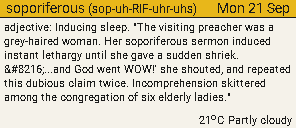
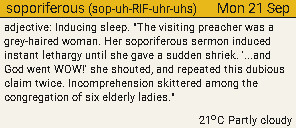
docs: 68 - a fixed pixel inset holds the wrong number of lines
The fourth reported symptom from the same run of panel reports: "should allow for
another line, as there is space". LESSONS 68 records the measurement (6 lines, ink
22-96, footer at 115 = 18px free), why the obvious fix - a taller box - is a trap
(4 lines at 10pt would reach y=126, into the footer), and the rule that caught it:
a box that reserves a constant for a line's height is wrong at both ends of the
ladder.

STATUS: the block geometry row (288x93) and a row for the fix, plus re-measured
build figures. ARCHITECTURE: the body zone now states the box is the space between
the header rule and the footer row and holds only whole lines. UI_HISTORY 8: the
third render (7 lines, ink to y=109) beside the 6-line one it replaced. The
soporiferous history render is regenerated through --word-file so the archived
"after" is engine-composed rather than Python-composed.

diff --git a/docs/STATUS.md b/docs/STATUS.md
@@ -7,7 +7,7 @@
 | Item | State |
 |---|---|
 | Repo scaffold | ✅ done |
-| Firmware builds | ✅ `verify_all.py` **ALL GREEN on a clean tree** (2026-09-22): `pio run -e s3` Flash **30.9%** (1,031,861 / 3,342,336 B), RAM **24.6%** (80,548 / 327,680 B); only library-side warnings. The 30.8% / 23.8% figures before this session predate the WOTD body buffers added below |
+| Firmware builds | ✅ `verify_all.py` **ALL GREEN on a clean tree** (2026-09-22): `pio run -e s3` Flash **30.9%** (1,031,865 / 3,342,336 B), RAM **24.6%** (80,548 / 327,680 B); only library-side warnings. The 30.8% / 23.8% figures before this session predate the WOTD body buffers added below |
 | Host suite | ✅ **133 tests across 9 suites**, all passing, on BOTH font paths (5x7 fallback and `CHROMAWOTD_DEVICE_FONTS=ON`) |
 | Display bring-up | ✅ 4-colour smoke pattern verified & flashed (hardware state as of this session's earlier work) |
 | Dual-target layout engine | ✅ `verse_display.cpp` runs on target (Seeed GFX) & host (CMake test harness) |
@@ -32,7 +32,8 @@
 | Weather policy & outlook | ✅ Daytime (< 18:00) shows today's expected maximum + condition (unlabelled); evening (18:00–23:59) shows tomorrow's expected maximum + condition with a red **TOMORROW** marker before it — without that marker the number is indistinguishable from today's |
 | Buttons & content toggle | ✅ A **tap** = sync + refresh; a **hold ~0.5-10 s** = show the other content for that refresh (an `RTC_DATA_ATTR` invert flag, cleared at the next scheduled wake, so the clock is always back in charge at the next slot); a **hold 10 s+** = factory reset. Classified by hold length in `sched/hold_gesture` (7 tests). A **double click was measured and ruled out**: every button wake — tap or double click — shows the pad still low at the first sample, so the two are indistinguishable (LESSONS §58) |
 | Weather icons | ✅ **N/A — the icon was removed (2026-09-19).** The weather is TEXT (`25°C Partly cloudy`), so the old "only WMO ≥ 80 gets a Rain icon" limitation no longer exists: the condition words are always correct. The `WeatherIcon` enum, the WMO→icon mapping, `draw/weather_icon.*`, the `--icon` preview flag and the sprite-sheet generator were all deleted (LESSONS §61) |
-| Verse font auto-size | ✅ Ladder extracted to `cc_pickVerseFont()`/`cc_verseFontSize()`; block geometry lives once in `verse_display.h` (`kVerseMaxW`/`kVerseMaxH`). The ladder is now **10 / 9 / 8 / 7 / 6 / 5.5 / 5pt** (widened from 6/5.5/5 with the verse-first layout, then raised to 10pt so short content can fill the panel — LESSONS §53/§55). Measured on the device font path: short verses and Word-of-the-Day definitions get **10pt**, the 153-char fixture verse 8pt, 191 chars 7pt, 316 chars 5.5pt |
+| Verse font auto-size | ✅ Ladder extracted to `cc_pickVerseFont()`/`cc_verseFontSize()`; block geometry lives once in `verse_display.h` (`kVerseMaxW`/`kVerseMaxH` = **288×93**). The ladder is **10 / 9 / 8 / 7 / 6 / 5.5 / 5pt** (widened from 6/5.5/5 with the verse-first layout, then raised to 10pt so short content can fill the panel — LESSONS §53/§55). Measured on the device font path: short verses and Word-of-the-Day definitions get **10pt**, the 153-char fixture verse 8pt, 191 chars 7pt, 316 chars 5.5pt, and a paragraph-length WOTD body 5pt |
+| Verse block height (2026-09-22) | ✅ **FIXED (LESSONS §68).** The box stopped at y=104 (82px) and reserved a fixed `8*size` px inset, so the 5pt rung drew 6 of the 7 lines that fitted — reported from the panel as "should allow for another line, as there is space" (18px, a whole line, sat unused above the footer). The box is now the space between the two fixed rows (22 → the footer row's top at 115 = **93px**) and `cc_lineCapacity(maxH, lineHeight) = maxH / lineHeight` holds only WHOLE lines, with no pixel inset to get wrong; both draw loops stop on the same capacity the truncation decision uses. The largest rung is unaffected (93/26 = 3 lines; 4 would have reached y=126, into the footer), and the 4 canonical ledger renders are byte-identical. The portal's wrapped error text keeps its 9 lines (box 84 → 90) |
 | Auto-size local coverage | ✅ `test_verse_autosize` — CMake compiles this target **with** `-DCHROMAWOTD_FONT_FREESANS=1`, closing a blind spot where every other host target exercised only the non-FreeSans path. 7/7 suites pass; `verify_all.py` ALL GREEN |
 | Device-font host suite | ✅ `-DCHROMAWOTD_DEVICE_FONTS=ON` runs the layout invariants on the shipped proportional font path; two font-calibrated tests were corrected (overflow-marker detector, alert-rule probe) after a render proved the product was fine and only the tests were. Wired in as `verify_all.py` stage 3/5 (see LESSONS §39) |
 | Font decision tooling | ✅ `tools/font_size_probe.py --live` reports which body font today's content gets, straight from `cc_verseFontSize()` via `layout_render`; `tools/flash_when_awake.py` retry-loops an upload until the deep-asleep port returns |

diff --git a/docs/lessons/LESSONS_LEARNT.md b/docs/lessons/LESSONS_LEARNT.md
@@ -1956,3 +1956,46 @@ Rules:
   the source's own data — never in a comment.
 
 (2026-09-22)
+
+## 68. A box that reserves a fixed pixel inset holds the wrong number of lines (RESOLVED)
+
+Reported *after* §66 was fixed and the whole example finally reached the renderer: *"the misgiving
+word should allow for another line, as there is space."*
+
+Measured on that render (5pt rung, 13 px lines, footer row at y=115): six body lines with ink from
+y=22 to y=96 and **18 px — a whole line — unused**.
+
+Two causes, both of the same shape:
+
+1. `cc_lineCapacity(maxH, size, lineHeight)` returned `(maxH - 8*size)/lineHeight + 1`: the box
+   reserved a fixed **8 pixels** for "the line's footprint", whatever the font. 8 px is 62% of a 5pt
+   line and 31% of a 10pt line, so it over-reserved at the small rung and under-reserved at the large
+   one.
+2. The draw loops stopped on a *different* bound again (`curY + 8 > startY + maxH`) — the same class
+   of mismatch that produced §66's invisible cut.
+
+The cheap fix — "just make the box taller" — is a trap: at 10pt a 4th line would finish at y=126,
+straight through the footer row at y=115.
+
+Fixes:
+- `cc_lineCapacity(maxH, lineHeight) = maxH / lineHeight` — a line fits WHOLE, and the `size`
+  parameter is gone. There is no reserve left to get wrong.
+- The box is now defined by the two fixed rows rather than a figure of its own: top = `kHeaderH` +
+  `kVerseMargin` = 22, bottom = the footer row's top (`kRowY` = 115) → **`kVerseMaxH` 82 → 93**. That
+  is 7 lines at 5pt, 6 at 5.5pt, 5 at 6/7pt, 4 at 8/9pt, 3 at 10pt; the deepest ink lands at y=114.
+- Both draw loops stop on `lineIdx >= capacity` — the *same* bound the truncation decision uses, so a
+  count and a draw can no longer disagree about how many lines exist.
+- The captive portal's wrapped error text keeps its 9 lines by moving its box 84 → 90, so the change
+  is not allowed to cost a line somewhere the report did not mention.
+
+Rules:
+- **A reserve expressed in pixels does not scale with the thing it reserves for.** Derive line counts
+  from the line height; a constant standing in for it will be simultaneously too big and too small in
+  one layout.
+- **Check both ends of the range before resizing a box.** The request was at the smallest rung; the
+  risk it added was at the largest. The 93px box is only safe because `93/26 = 3` still holds 10pt.
+- **Measure the ink, not the intent.** The real free space was visible in one command — the rendered
+  PNG's ink bands (`y` ranges) showed 22–96 with the footer at 115. The layout code and the tests both
+  agreed with the *old* rule; only the pixels disagreed.
+
+(2026-09-22)

diff --git a/docs/UI_HISTORY.md b/docs/UI_HISTORY.md
@@ -243,7 +243,17 @@ data-shaped — a drop rule, two caps, and a timezone — not typography.
 | the paragraph-length example, filled and marked | the sentence-bounded alternative (recorded, not adopted) |
 |---|---|
 | ![misgiving: full example at 5pt with an ellipsis](images/history/wotd_after_misgiving_full_body_ellipsis.png) | ![misgiving: definition + first sentence at 7pt](images/history/wotd_variant_misgiving_first_sentence.png) |
-| `misgiving`, 874-char body (the real example is 855 chars) → the ladder picks **5pt** and the block ends with a visible `...` | definition + the usage's first sentence → the ladder picks **7pt**. Kept in the history as the size/coverage trade-off that was available when the fill-the-box behaviour was chosen |
+| `misgiving`, 874-char body (the real example is 855 chars) → the ladder picks **5pt** and the block ends with a visible `...` — but the block stopped at y=96 with the footer row at 115: **one whole line left unused** | definition + the usage's first sentence → the ladder picks **7pt**. Kept in the history as the size/coverage trade-off that was available when the fill-the-box behaviour was chosen |
+
+| the same word, box grown to the footer row (7 lines) |
+|---|
+| ![misgiving: seven lines in the 93px box](images/history/wotd_after_misgiving_seven_lines_taller_box.png) |
+| Reported from the panel as "should allow for another line, as there is space": the box reserved a fixed 8px inset and stopped at y=104, not at the footer row. `kVerseMaxH` 82 → 93 (22 → 115) and `cc_lineCapacity = maxH / lineHeight` now hold **7 lines at 5pt**, ink ending at y=109 instead of 96 — the last line is `...collegiate entrance…` |
+
+- **Space left unused under text** — the block reserved a fixed 8px inset for a line whose height
+  depends on the font, so it dropped a 13px line at the 5pt rung while (at 10pt) it would have allowed
+  a line to reach 11px *into* the footer row. The count is now derived from the line height and the
+  box is defined by the two fixed rows. (LESSONS §68)
 
 - **Same word as yesterday** — A.Word.A.Day publishes at 00:01 US Eastern, i.e. 14:01 AEST, *after*
   the 12:30 slot. The 12:30 refresh was reading yesterday's edition and showing it as today's word.

diff --git a/docs/ARCHITECTURE.md b/docs/ARCHITECTURE.md
@@ -23,7 +23,7 @@ ChromaWOTD is a 2.9" quad-colour ePaper display (BWRY: black, white, red, yellow
 | zone | contents |
 |---|---|
 | header band (18 px, yellow) | **what** you are reading: the citation (`Proverbs 3:5-6`), or the word with its respelling (`breviloquent (bre-VIL-uh-kwuhnt)`), drawn one size up at 7pt; the date sits at the right at the **same size**, formatted `DOW DD MMM` (`Sat 19 Sep`) by `text/date_format.h`. The respelling is never dropped — it shrinks (7 → 6 → 5.5 → 5pt) into the room left before the date and is truncated only as a last resort (LESSONS §65) |
-| body | the verse / definition, **full panel width**, auto-sized by a ladder from 10pt down to 5.5pt |
+| body | the verse / definition, **full panel width**, auto-sized by a ladder from 10pt down to 5pt (the 5pt rung is what a paragraph-length Word-of-the-Day example needs). The block is the space between the header rule and the footer row — 22 → 115 px — and holds only whole lines (`cc_lineCapacity = maxH / lineHeight`) |
 | footer row | status / warnings at the LEFT in red; weather as text at the RIGHT (`25°C Partly cloudy`) |
 
 There is deliberately **no weather column and no mode title**: the mode name was the least
